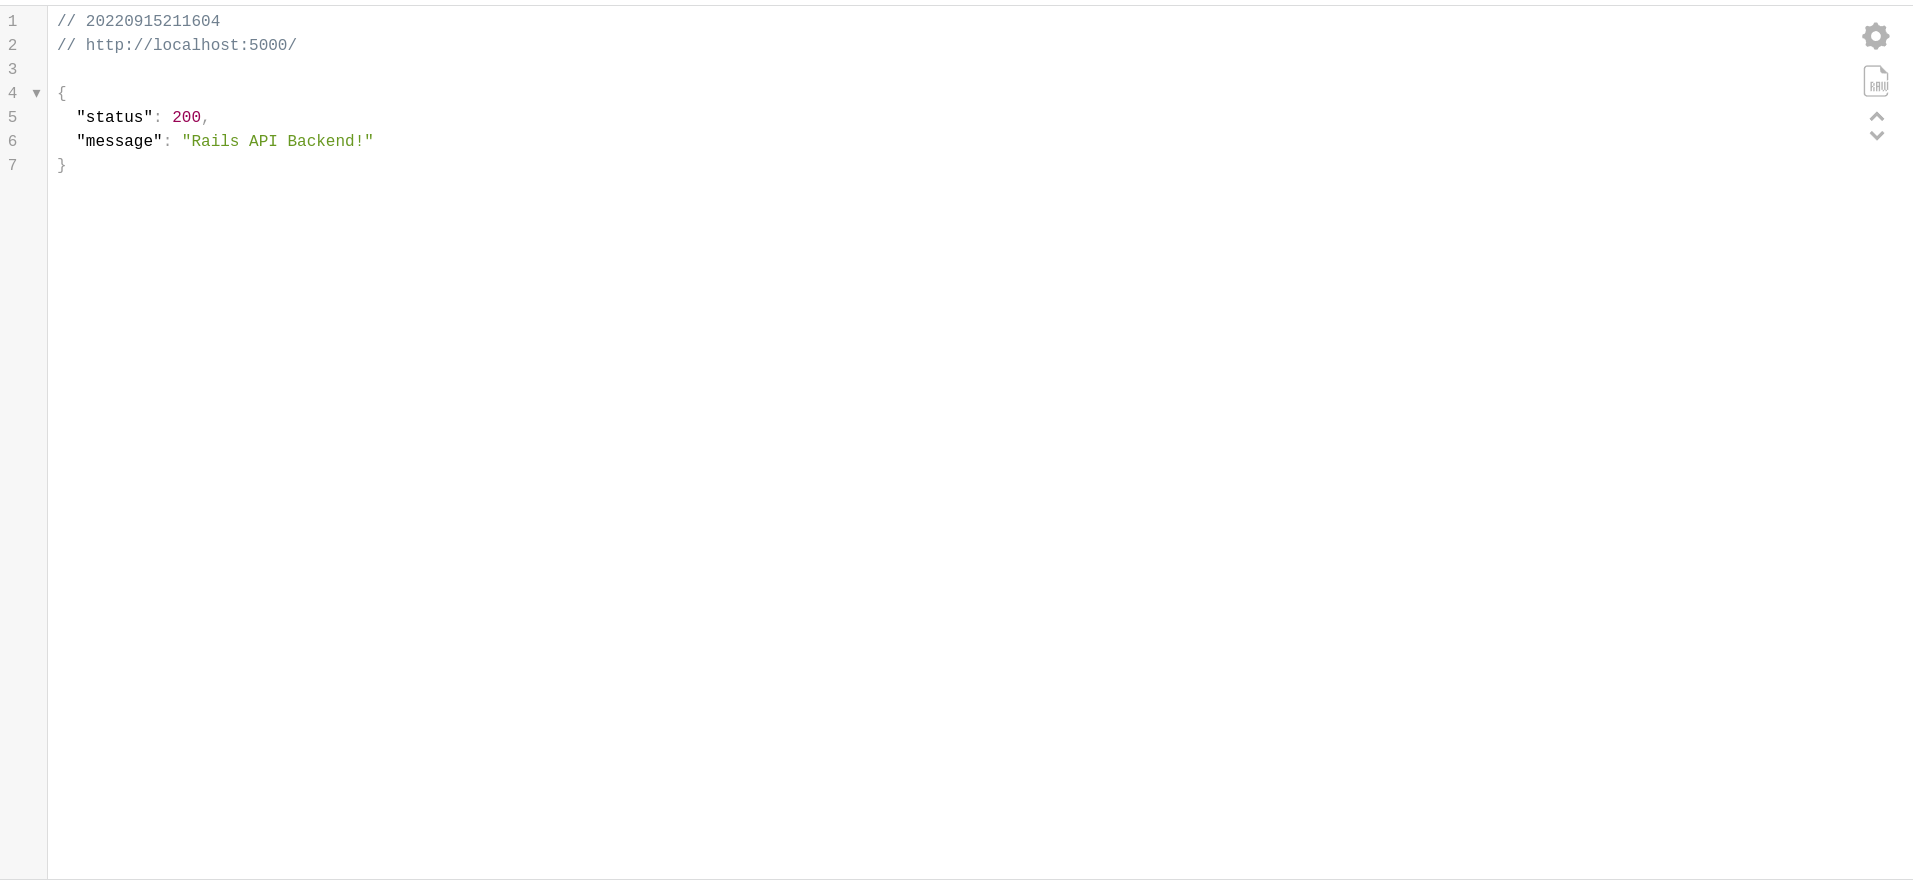
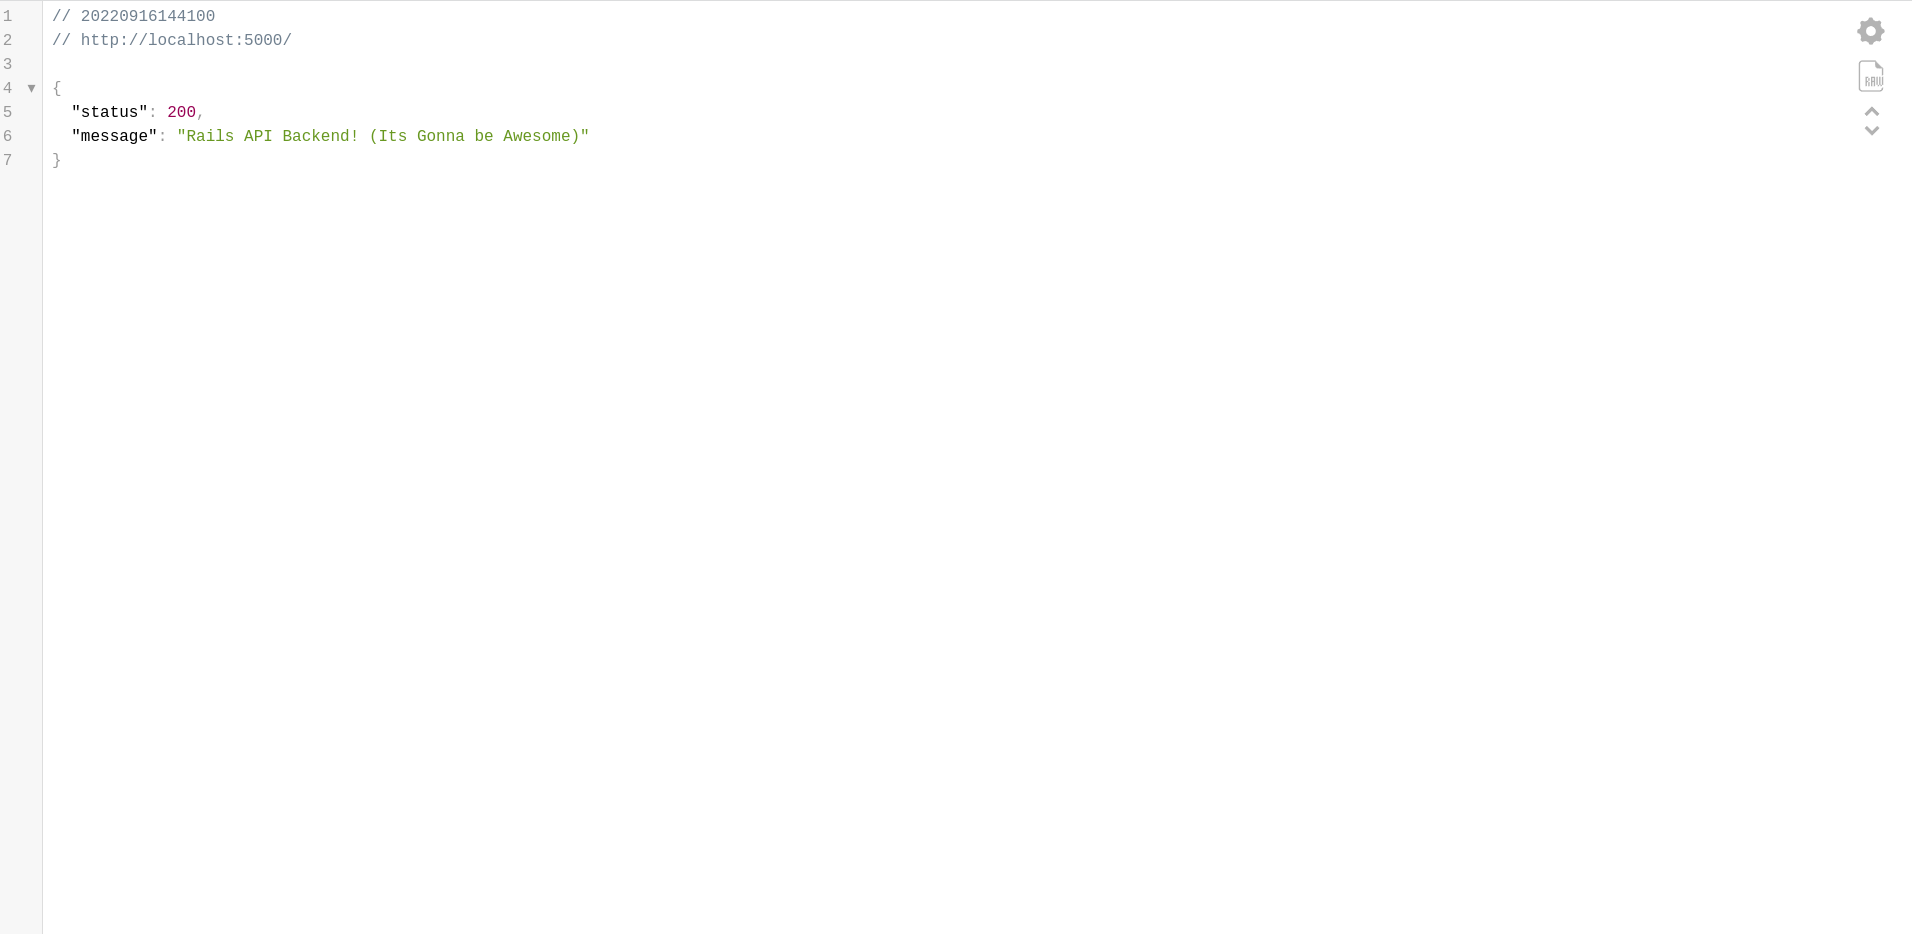
Update

Changed region(s): [[0.0, 0.0612, 0.3086, 0.1837], [0.0, 0.0, 0.1543, 0.0612], [0.9566, 0.0, 0.9874, 0.1531]]

diff --git a/frontend/components/NavBar.vue b/frontend/components/NavBar.vue
@@ -1,41 +1,26 @@
 <template>
-   <nav class="navbar navbar-expand-lg navbar-light bg-light">
+<nav class="navbar navbar-expand-lg navbar-dark bg-dark" style="background: linear-gradient(112.1deg, rgb(32, 38, 57) 11.4%, rgb(63, 76, 119) 70.2%);">
   <div class="container-fluid">
-    <a class="navbar-brand" href="#">Events</a>
+    <strong><nuxt-link to="/" class="nav-link text-white">Flights</nuxt-link></strong>
     <button class="navbar-toggler" type="button" data-bs-toggle="collapse" data-bs-target="#navbarSupportedContent" aria-controls="navbarSupportedContent" aria-expanded="false" aria-label="Toggle navigation">
       <span class="navbar-toggler-icon"></span>
     </button>
     <div class="collapse navbar-collapse" id="navbarSupportedContent">
       <ul class="navbar-nav me-auto mb-2 mb-lg-0">
         <li class="nav-item">
-          <a class="nav-link active" aria-current="page" href="#">Home</a>
+        <nuxt-link to="/list" class="nav-link mx-2">List</nuxt-link>
         </li>
         <li class="nav-item">
-          <a class="nav-link" href="#">Link</a>
-        </li>
-        <li class="nav-item dropdown">
-          <a class="nav-link dropdown-toggle" href="#" id="navbarDropdown" role="button" data-bs-toggle="dropdown" aria-expanded="false">
-            Dropdown
-          </a>
-          <ul class="dropdown-menu" aria-labelledby="navbarDropdown">
-            <li><a class="dropdown-item" href="#">Action</a></li>
-            <li><a class="dropdown-item" href="#">Another action</a></li>
-            <li><hr class="dropdown-divider"></li>
-            <li><a class="dropdown-item" href="#">Something else here</a></li>
-          </ul>
-        </li>
-        <li class="nav-item">
-          <a class="nav-link disabled" href="#" tabindex="-1" aria-disabled="true">Disabled</a>
+          <nuxt-link to="/create" class="nav-link mx-2">Create</nuxt-link>
         </li>
       </ul>
       <form class="d-flex">
         <input class="form-control me-2" type="search" placeholder="Search" aria-label="Search">
-        <button class="btn btn-outline-success" type="submit">Search</button>
+        <button class="btn btn-outline-info" type="submit">Search</button>
       </form>
     </div>
   </div>
 </nav>
-
-    </template>
+</template>
     
     

diff --git a/frontend/components/Footer.vue b/frontend/components/Footer.vue
@@ -1,0 +1,25 @@
+<template>
+<footer class="text-center text-white mt-4" style="background: linear-gradient(112.1deg, rgb(32, 38, 57) 11.4%, rgb(63, 76, 119) 70.2%);">
+    <!-- Grid container -->
+    <div class="container p-4 pb-0">
+      <!-- Section: CTA -->
+      <section class="">
+        <p class="d-flex justify-content-center align-items-center text-white">
+          <span class="me-3">Register on Flights For Free!</span>
+          <nuxt-link to="/signup" class="btn btn-outline-light btn-rounded">
+            Signup</nuxt-link>
+         
+        </p>
+      </section>
+      <!-- Section: CTA -->
+    </div>
+    <!-- Grid container -->
+
+    <!-- Copyright -->
+    <div class="text-center text-white p-3" style="background-color: rgba(0, 0, 0, 0.05);">
+      © 2021 Copyright:
+      <a class="text-white" href="https://xhostcom.com/">Paul Anthony McGowan</a>
+    </div>
+    <!-- Copyright -->
+  </footer>
+  </template>

diff --git a/frontend/pages/index.vue b/frontend/pages/index.vue
@@ -1,8 +1,5 @@
 <template>
 <div class="container mt-5">
     <h1 class="font-bold">Nuxt 3 Vue Bootstrap Frontend 3000</h1>
-    <div class="btn btn-success">Success</div>
-    <div class="btn btn-danger">Danger</div>
-    <div class="btn btn-warning">Warning</div>
 </div>
 </template>

diff --git a/frontend/pages/Create.vue b/frontend/pages/Create.vue
@@ -1,0 +1,6 @@
+<template>
+  <div class="container mt-5">
+    <h1 class="font-bold">Create Flight</h1>
+    <div class="btn btn-success">Create</div>
+  </div>
+</template>

diff --git a/frontend/pages/List.vue b/frontend/pages/List.vue
@@ -1,0 +1,6 @@
+<template>
+  <div class="container mt-5">
+    <h1 class="font-bold">List Flights</h1>
+    <div class="btn btn-success">List</div>
+  </div>
+</template>

diff --git a/frontend/layouts/default.vue b/frontend/layouts/default.vue
@@ -1,5 +1,7 @@
 <template>
   <div>
+    <NavBar />
     <slot />
+    <Footer />
   </div>
 </template>

diff --git a/db/schema.rb b/db/schema.rb
@@ -1,5 +1,3 @@
-# frozen_string_literal: true
-
 # This file is auto-generated from the current state of the database. Instead
 # of editing this file, please use the migrations feature of Active Record to
 # incrementally modify your database, and then regenerate this schema definition.
@@ -12,47 +10,47 @@
 #
 # It's strongly recommended that you check this file into your version control system.
 
-ActiveRecord::Schema[7.0].define(version: 20_220_915_133_638) do
+ActiveRecord::Schema[7.0].define(version: 2022_09_15_133638) do
   # These are extensions that must be enabled in order to support this database
-  enable_extension 'plpgsql'
+  enable_extension "plpgsql"
 
-  create_table 'airlines', force: :cascade do |t|
-    t.string 'name'
-    t.string 'image_url'
-    t.string 'slug'
-    t.datetime 'created_at', null: false
-    t.datetime 'updated_at', null: false
+  create_table "airlines", force: :cascade do |t|
+    t.string "name"
+    t.string "image_url"
+    t.string "slug"
+    t.datetime "created_at", null: false
+    t.datetime "updated_at", null: false
   end
 
-  create_table 'reviews', force: :cascade do |t|
-    t.string 'title'
-    t.text 'description'
-    t.integer 'score'
-    t.bigint 'airline_id', null: false
-    t.datetime 'created_at', null: false
-    t.datetime 'updated_at', null: false
-    t.index ['airline_id'], name: 'index_reviews_on_airline_id'
+  create_table "reviews", force: :cascade do |t|
+    t.string "title"
+    t.text "description"
+    t.integer "score"
+    t.bigint "airline_id", null: false
+    t.datetime "created_at", null: false
+    t.datetime "updated_at", null: false
+    t.index ["airline_id"], name: "index_reviews_on_airline_id"
   end
 
-  create_table 'users', force: :cascade do |t|
-    t.string 'email', default: '', null: false
-    t.string 'encrypted_password', default: '', null: false
-    t.string 'reset_password_token'
-    t.datetime 'reset_password_sent_at'
-    t.datetime 'remember_created_at'
-    t.integer 'sign_in_count', default: 0, null: false
-    t.datetime 'current_sign_in_at'
-    t.datetime 'last_sign_in_at'
-    t.string 'current_sign_in_ip'
-    t.string 'last_sign_in_ip'
-    t.string 'first_name'
-    t.string 'last_name'
-    t.boolean 'admin'
-    t.datetime 'created_at', null: false
-    t.datetime 'updated_at', null: false
-    t.index ['email'], name: 'index_users_on_email', unique: true
-    t.index ['reset_password_token'], name: 'index_users_on_reset_password_token', unique: true
+  create_table "users", force: :cascade do |t|
+    t.string "email", default: "", null: false
+    t.string "encrypted_password", default: "", null: false
+    t.string "reset_password_token"
+    t.datetime "reset_password_sent_at"
+    t.datetime "remember_created_at"
+    t.integer "sign_in_count", default: 0, null: false
+    t.datetime "current_sign_in_at"
+    t.datetime "last_sign_in_at"
+    t.string "current_sign_in_ip"
+    t.string "last_sign_in_ip"
+    t.string "first_name"
+    t.string "last_name"
+    t.boolean "admin"
+    t.datetime "created_at", null: false
+    t.datetime "updated_at", null: false
+    t.index ["email"], name: "index_users_on_email", unique: true
+    t.index ["reset_password_token"], name: "index_users_on_reset_password_token", unique: true
   end
 
-  add_foreign_key 'reviews', 'airlines'
+  add_foreign_key "reviews", "airlines"
 end

diff --git a/app/controllers/pages_controller.rb b/app/controllers/pages_controller.rb
@@ -1,7 +1,7 @@
 class PagesController < ApplicationController
 
   def index 
-    render json: { status: 200, message: "Rails API Backend!" }
+    render json: { status: 200, message: "Rails API Backend! (Its Gonna be Awesome)" }
   end 
   
 end
